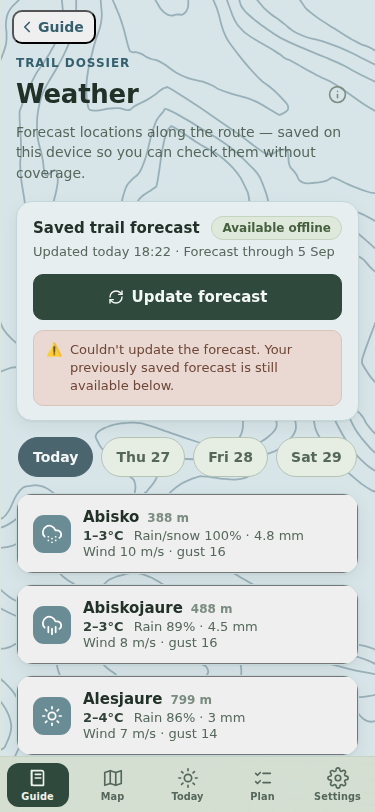
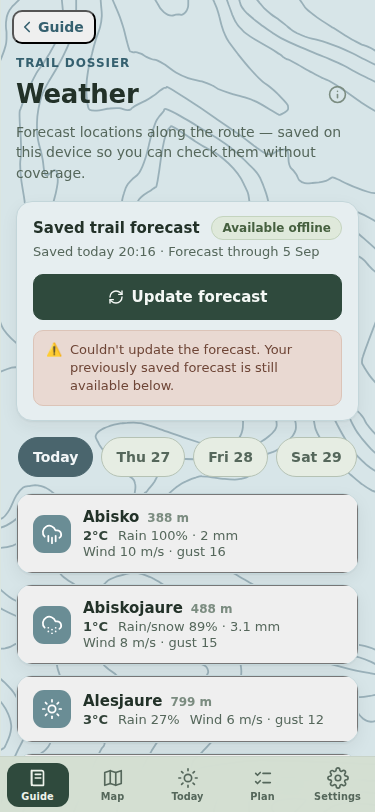
fix(weather): honest 'Saved' wording, corrected SNOW cadence docs, parameters= filtering
- Status line now reads 'Saved today HH:mm' (the timestamp is
  downloadedAt — when this device stored the snapshot — not SMHI's issue
  time; forecastIssuedAt stays stored unchanged).
- Comments/docs corrected per SMHI's official snow1gv1 documentation:
  intervals increase 'e.g. 3, 6 and 12 h' after the hourly start (was
  described as 2 h steps). No processing change — the code already reads
  each entry's own timestamps instead of assuming a cadence.
- Point requests now use the officially supported ?parameters= filter to
  download only the seven fields the app consumes.
- Evidence screenshots re-captured against the rebuilt app; 29/29
  scripted browser checks pass.

Claude-Session: https://claude.ai/code/session_01TWTzFWkihML9D9CyW1u1Ni

diff --git a/src/screens/WeatherScreen.tsx b/src/screens/WeatherScreen.tsx
@@ -260,8 +260,11 @@ export function GuideWeatherScreen() {
                 </span>
               )}
             </div>
+            {/* "Saved", not "Updated": this timestamp is downloadedAt — when
+                THIS DEVICE saved the snapshot — not SMHI's issue time (which
+                is stored separately as forecastIssuedAt). */}
             <p className="weather-status__meta">
-              Updated {notice === null ? 'today' : shortDateLabel(stockholmDateOf(snapshot.downloadedAt))}{' '}
+              Saved {notice === null ? 'today' : shortDateLabel(stockholmDateOf(snapshot.downloadedAt))}{' '}
               {savedTime} · Forecast through{' '}
               {shortDateLabel(stockholmDateOf(snapshot.validThrough))}
             </p>

diff --git a/docs/proposals/weather-section.md b/docs/proposals/weather-section.md
@@ -33,7 +33,9 @@ UTC.
 
 The screen owns its data status. A compact status block at the top
 always answers "how old is my saved forecast and how far does it
-reach": Updated <time> · Forecast through <date>, with an
+reach": Saved <time> · Forecast through <date> ("Saved", because the
+timestamp is downloadedAt — when this device stored the snapshot — not
+SMHI's issue time, which is kept separately as forecastIssuedAt), with an
 offline-ready/offline/stale secondary line. One explicit action —
 "Update forecast" — fetches all eight points, validates and normalises
 them, and only then atomically replaces the stored snapshot.
@@ -71,8 +73,10 @@ parameters), flat `data` objects with `air_temperature`, `wind_speed`,
 `wind_speed_of_gust`, `probability_of_precipitation`,
 `precipitation_amount_mean` (interval amount, mm),
 `predominant_precipitation_type_at_surface` (0–6) and `symbol_code`
-(1–27, the Wsymb2 scale). Steps: 1 h to +48 h, 2 h to +72 h, 6 h to
-+132 h, 12 h beyond — roughly a 10-day horizon. Kungsleden is inside the
+(1–27, the Wsymb2 scale). Steps: hourly at the start of the forecast,
+then increasing intervals (per SMHI's documentation "e.g. 3, 6 and
+12 h") — roughly a 10-day horizon; the implementation reads each entry's
+own timestamps rather than assuming a cadence. Kungsleden is inside the
 model domain. Attribution (SMHI open data, CC BY 4.0) is shown on the
 screen.
 
